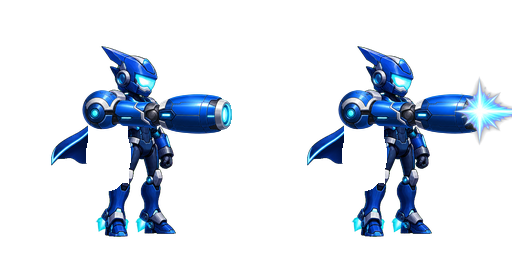
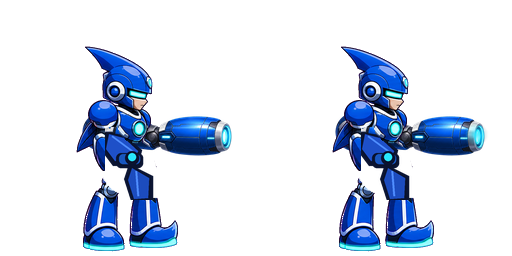
[claude] char: shoot/charge を新idleから派生・統一 — 立ち姿と攻撃姿の別物バグ修正
shoot/charge が旧モデル(正面寄り3/4・横広がりマント・肉厚)のままで、新しい
横向きidleと別人になっていた問題を修正。新idleの体をそのまま流用し、変えるのは
バスター腕だけ(shoot=前方水平に構え/charge=前方で溜めオーブ)。
→ idle/run/shoot/charge が同一人物・同一右向き横プロファイルに統一。
ASSET_VER更新。harness 30/30、in-engineでidleと整合・砲口/溜めFX位置一致を確認。

Changed region(s): [[0.5938, 0.1562, 1.0, 1.0], [0.0938, 0.1562, 0.4688, 1.0]]

diff --git a/index.html b/index.html
@@ -167,7 +167,7 @@ function manageBgm(){            // 毎フレーム呼ぶ（状態に応じてBG
 // 各エンティティ＝{fw,fh,scale,ax,ay, anims:{name:{src,frames,fps}}}。
 // anim毎に1枚の横ストリップPNG（コマを横一列）。素材配置後にここを記述する。
 // ★キャッシュ無効化: 素材PNGを差し替えたら ASSET_VER を変えると、ブラウザ/CDNが必ず新素材を取得する。
-const ASSET_VER = '2026060201';
+const ASSET_VER = '2026060202';
 function _av(s){ return s + (s.indexOf('?')<0 ? '?v=' : '&v=') + ASSET_VER; }
 const ASSETS = {
   // 高精細2D(塗り)。scale/ayは見た目に合わせて調整。未生成のanimはidleへ自動フォールバック。
